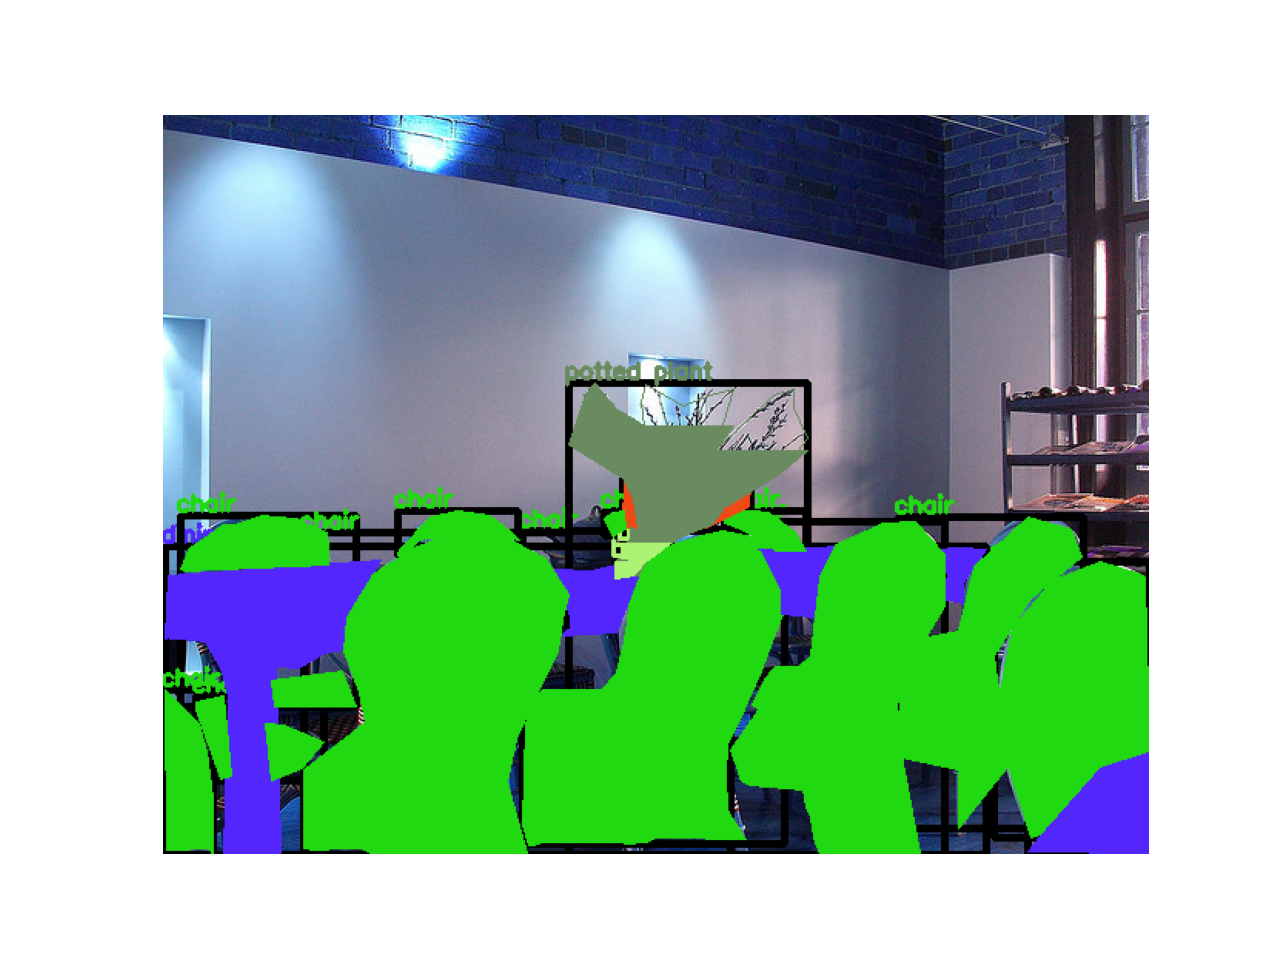
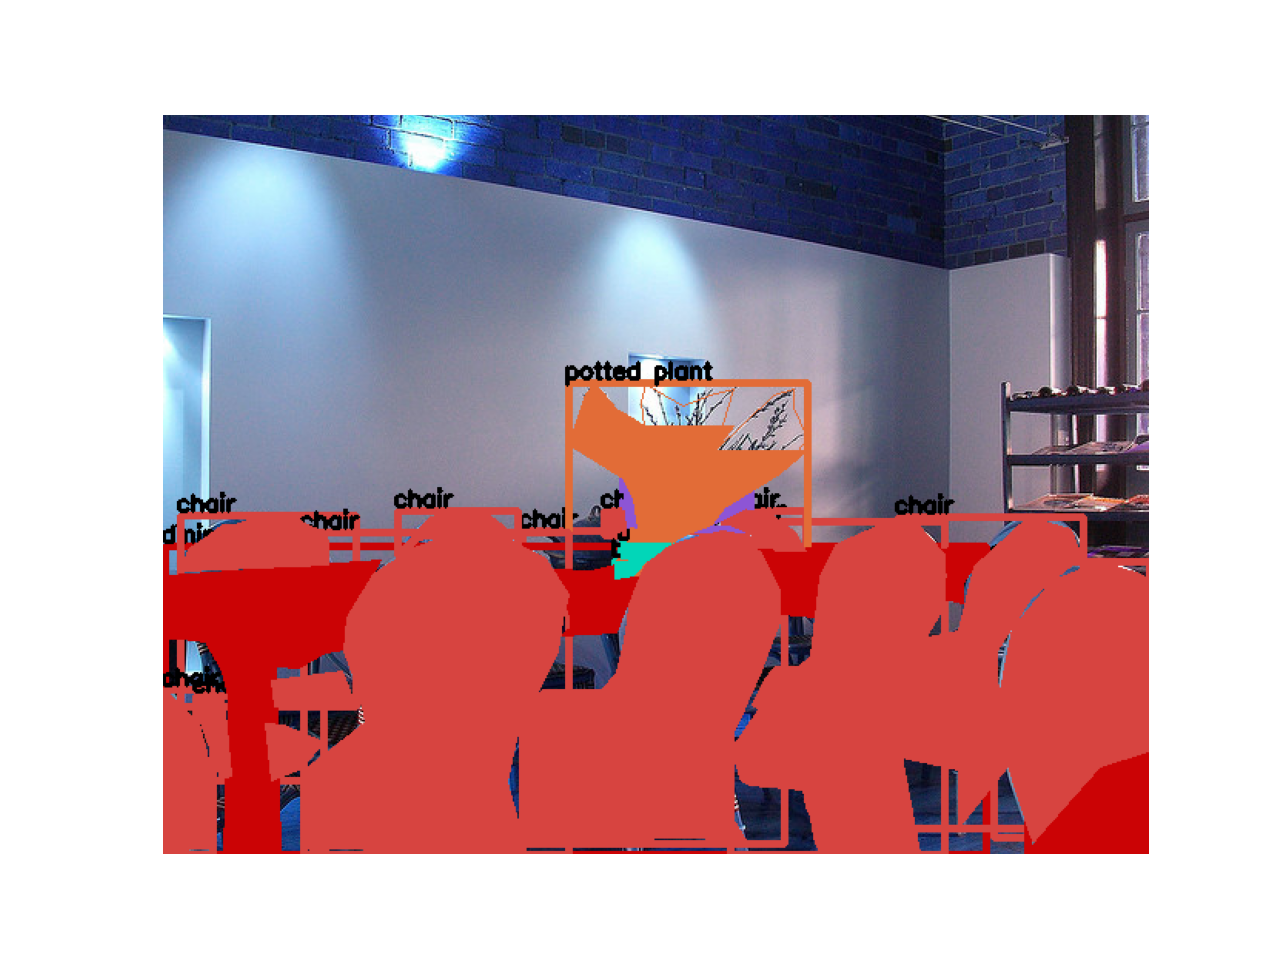
3/25 update -3

Changed region(s): [[0.125, 0.375, 0.9062, 0.9062]]

diff --git a/coco_visualize_2.py b/coco_visualize_2.py
@@ -66,7 +66,7 @@ def draw_masks(
             zip_segs = np.array(zip_segs)
 
             cv2.fillConvexPoly(image, zip_segs, colors[v['category_id']])
-            cv2.addWeighted(image, 1, target, 0.5, 0)
+            # cv2.addWeighted(image, 1, target, 0.5, 0)
             
 
     return image
